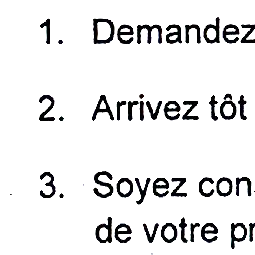
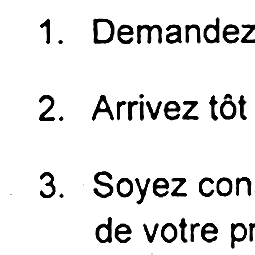
Apply grayscale to precise despeckle

diff --git a/despeckle.py b/despeckle.py
@@ -2,13 +2,12 @@ import Image
 import ImageFilter
 from numpy import median
 
-#BLACK = (0,0,0)
-WHITE = (255, 255, 255)
+'''Filter that remove grain noise from an Image
+Requires PIL and NumPy'''
 
 IMG_IN  = r"test.png"
-#IMG_OUT = r"test_result.png"
-
-MAX_LUM = 220.0
+MAX_LUM = 220
+WHITE = (255, 255, 255)
 
 def luminosity(rgb, rcoeff=0.2126, gcoeff=0.7152, bcoeff=0.0722):
     return rcoeff*rgb[0] + gcoeff*rgb[1] + bcoeff*rgb[2]
@@ -18,7 +17,7 @@ def is_in_range(img, c, r):
     return c >= 0 and c < img.size[0] and r >= 0 and r < img.size[1]
 
 def get_area(img, c, r):
-    '''returns 3*3 pixels centered on x, y'''
+    '''returns at most 3*3 pixels centered on x, y'''
     ret = []
     for i in xrange(c-1, c+2):
         for j in xrange(r-1, r+2):
@@ -45,10 +44,13 @@ def despeckle(img):
     width, height = img.size
     for r in xrange(height):
         for c in xrange(width):
-            if median_lum_area(img, c, r) >= MAX_LUM:
+            lum = int(median_lum_area(img, c, r))
+            if lum >= MAX_LUM:
+                # Make high luminance pixels completely white
                 px_map[c,r] = WHITE
             else:
-                px_map[c,r] = img.getpixel((c,r))
+                # Apply grayscale luminance
+                px_map[c,r] = (lum, lum, lum)
     return res
 
 def despeckle_fast(img):
